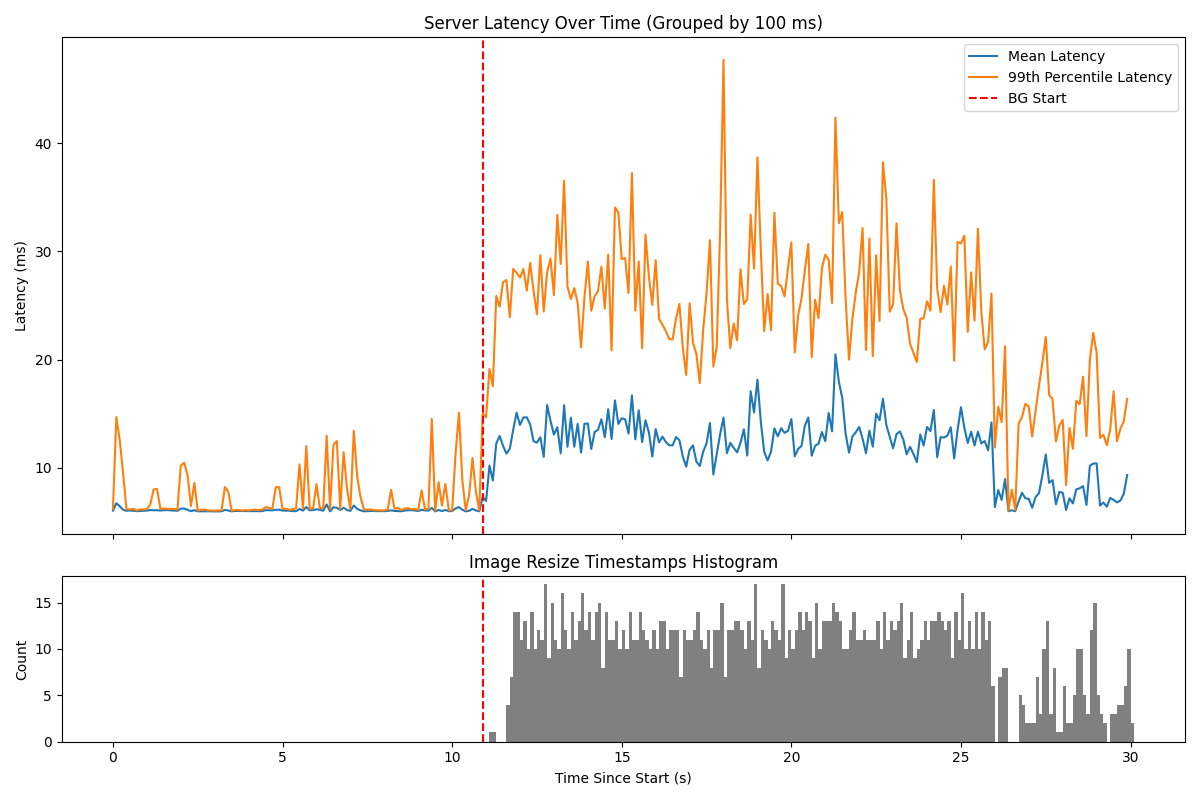
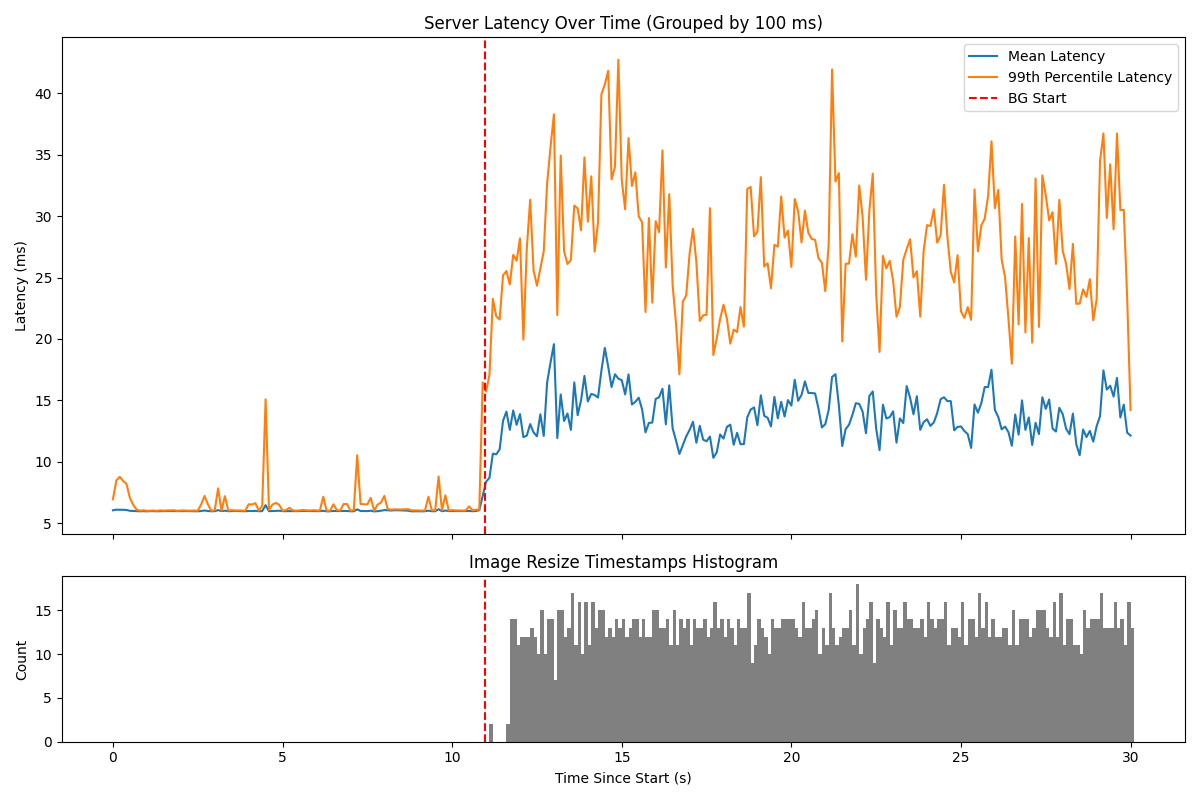
did some stuff, pushed further into the eval. it's all crap i don't really know what to do about it

diff --git a/smth26/eval.tex b/smth26/eval.tex
@@ -3,6 +3,48 @@
 \label{s:eval}
 %-------------------------------------------------------------------------------
 
+All the graphs in this paper run on Linux version 6.14.2, the baseline version
+that our patch builds on. In our evaluation, we explore XX questions:
+\begin{enumerate}
+    \item Does the patch create the categorical split we wanted on a mechanistic level?
+    \item Does the patch isolate LC from BE workloads for real applications?
+    \item How much does the patch cost?
+\end{enumerate}
+
+
+\subsection{Verifying patch behavior}
+
+\begin{figure}[t]
+    \centering
+    \begin{subfigure}[t]{0.49\columnwidth}
+        \includegraphics[width=\columnwidth]{graphs/schedviz-steal-unedited.png}
+        \caption{unedited Linux}
+    \end{subfigure}
+    \hspace{\fill}
+    \begin{subfigure}[t]{0.49\columnwidth}
+        \includegraphics[width=\columnwidth]{graphs/schedviz-steal-patched.png}
+        \caption{patched Linux}
+    \end{subfigure}
+    \vspace{4pt}
+    \caption{microbench on two cores; in both diagrams the different shades of blue are the
+    \schednormal{} processes and the yellow is the \schedidle{} process}\label{fig:steal-micro}
+\end{figure}
+
+We begin by looking at the behavior of the patch in a microbenchmark. On three
+cores, we run two \schednormal{} processes and one \schedidle{} process. We
+visualize the scheduling decisions made by both an unedited and patched version
+of the kernel in \autoref{fig:steal-micro}. We observe that the scheduler
+initially runs two of the \schednormal{} processes on one core and the third on
+the other core. When the latter finishes, the unedited version of Linux will run
+the \schedidle{} process on that core; whereas the patched version will steal
+the queued \schednormal{} process from the other core. 
+
+We conclude that the patch works as expected, and is able to enforce the
+categorical separation of \schednormal{}, ie LC, and \schedidle{}, ie BE,
+workloads across cores.
+
+\subsection{Realistic applications}
+
 
 \begin{figure}[t]
     \centering
@@ -20,9 +62,23 @@
     tasks before running \schedidle{} ones}\label{fig:patched-idle}
 \end{figure}
 
-We can see the resulting performance in figure~\ref{fig:patched-idle}, and see
-that as desired the latency of the server remains stable after the background
-tasks start. This does not mean that the background task never runs: the lower
-graph still shows iterations of image resizing being done. The difference is
-that now the background tasks will reliably get interrupted when the LC server
-has a request to process.
+This work focuses on cpu allocation, and thus will show the strongest gains for
+applications that are cpu bound. 
+
+We test the patch in two different settings: the cpu-bound example server we
+have been using for the graphs in this paper so far, and an example web application
+that we run using Kubernetes, that uses a mix of i/o and cpu.
+
+For the experiment we have used throughout the paper, we set the BE workloads to
+be marked as idle via the \cgroups{} api. We can see the resulting performance
+in figure~\ref{fig:patched-idle}. As desired the latency of the server remains
+stable after the background tasks start. This does not mean that the background
+task never runs: the lower graph still shows iterations of image resizing being
+done. The difference is that now the background tasks will reliably get
+interrupted when the LC server has a request to process.
+
+For the web application, we build a REST-api on top of FastAPI, and deploy it
+using async gunicorn workers. The web application itself is a recommendation
+service, it has a connection to a database, which is makes requests to and
+processes data from.
+

diff --git a/smth26/approach.tex b/smth26/approach.tex
@@ -10,20 +10,19 @@ A categorical differentiation in the scheduler enables unbounded unfairness
 towards BE during high load, and requires few and well-defined synchronization
 points between cores.
 
-Unbounded unfairness is a requirement for practical independence between LC and
-BE workloads: LC service times need to be independent of the load as well as the
-number of BE workloads. For any weighted split, a large enough number of BE
-workloads will add up to a significant weight in the system; for example, even
-if the weights were correctly globally enforced, packing 100 BE workloads on a
-machine would lead the proportional weight of the LC workload to decrease
-significantly. A categorical split between LC and BE avoids this: as more BE
-workloads start up, the share that BE gets doesn't change. As a result of this
-unbounded unfairness towards BE workloads, we have bounded the amount of impact
-that BE workloads can have on LC workloads' CPU time.
+Kubernetes uses the nested nature of \cgroups{} to do what we now support
+explicitly: a categorically separate class for BE. As new BE tasks start, only
+the CPU time of other BE tasks is affected. This type of unfairness is a
+requirement for practical independence between LC and BE workloads: LC service
+times need to be independent of the load as well as the number of BE workloads.
+A categorical split between LC and BE enforce this: as more BE workloads start
+up, the share that BE gets doesn't change. As a result of this unbounded
+unfairness towards BE workloads, we have bounded the amount of impact that BE
+workloads can have on LC workloads' CPU time.
 
 Creating separate categories also allows for fewer synchronization points
-without losing any of the global guarantees. In order to enforce a categorical
-priority, the scheduler only needs to sychronize at two points: on
+without compromising the enforcement of global isolation. In order to enforce a
+categorical priority, the scheduler only needs to sychronize at two points: on
 \textit{entry}, when a new high-priority thread wakes up on a core already
 running something high-priority, and \textit{exit}, when starting to run a low
 priority thread. If on entry the scheduler looks for cores running low priority
@@ -78,11 +77,13 @@ We run the same experiment as in \autoref{s:intro}, but put the LC task in the
 Fifo scheduling class, and leave BE tasks with the default process weight.
 \autoref{fig:unedited-rt} shows the resulting measured latencies in the same low
 and high load setting as previously. As expected, we see that Linux is able to
-isolate the two very well. However, this is an untenable final solution because
-of Fifo's run-to-completion scheduling, which is known to have a failure mode of
-head-of-line (HoL) blocking, where long-running requests monopolize the CPU
-while short requests wait in the queue. The Fifo scheduler also enforces not
-only cross-core isolation between different priorities, but also a global
+isolate the two very well. 
+
+However, this is an untenable final solution because of Fifo's run-to-completion
+scheduling, which is known to have a failure mode of head-of-line (HoL) blocking
+under varied request processing times, where long-running requests monopolize
+the CPU while short requests wait in the queue. The Fifo scheduler also enforces
+not only cross-core isolation between different priorities, but also a global
 ordering within the same priority.
 
 The takeaway is that Linux's current mechanism of scheduling classes can isolate

diff --git a/smth26/problem.tex b/smth26/problem.tex
@@ -48,7 +48,7 @@ interface is at odds with machine-wide policy enforcement.
 
 \begin{figure}[t]
     \centering
-    \includegraphics[width=0.8\columnwidth]{graphs/todo.png}
+    \includegraphics[width=\columnwidth]{graphs/cmp-x-numa.png}
     \caption{the low load setting of the same experiment, running on cores
     across two NUMA nodes}\label{fig:across-numa}
 \end{figure}
@@ -58,15 +58,13 @@ interface is at odds with machine-wide policy enforcement.
 We see that this is the case by running the same experiment in a setting where
 synchronization is even more expensive: on cores across NUMA nodes. In
 \autoref{fig:across-numa}, we run the exact same experiment, but use cores that
-span different NUMA nodes. The graph shows a greatly increased latency spike,
-due to a decreased number of migrations: in the original experiment there were
-XX migrations over the course of the experiment, and in this version there were
-only YY. This indicates that, as expected, more synchronization points increases
-the degree to which the weights are enforced across cores. In order to strictly
-and completely enforce the weights, the scheduler would need to synchronize at
-every scheduling decision: calculating whether a given process is owed time
-globally requires knowing the total weight across all cores as well as the sum
-of time that all the processes in the group have gotten. 
+span different NUMA nodes. The graph shows more variable latencies as well as
+higher spikes. This indicates that, as expected, more synchronization points
+increases the degree to which the weights are enforced across cores. In order to
+strictly and completely enforce the weights, the scheduler would need to
+synchronize at every scheduling decision: calculating whether a given process is
+owed time globally requires knowing the total weight across all cores as well as
+the sum of time that all the processes in the group have gotten. 
 
 
 \subsection{Weights add up}
@@ -84,17 +82,14 @@ Although low weights run infrequently, they still get a fair share, and in doing
 so impact the latency of the higher weight (LC) processes. A large number of BE
 workloads each with a small weight adds up to represent a significant amount of
 weight in the system, now contending directly with the LC workload. In
-\autoref{fig:many-be}, we show the mean and 99th pctile latency increase when
-starting different numbers of BE workload, as compared to an uncontended
-baseline. As expected, as the number of BE workloads goes up, the impact on the
-latency of the LC server goes up.
+\autoref{fig:many-be}, we show the mean and 99th pctile latency increase for the
+LC server when starting different numbers of BE workload, as compared to an
+uncontended baseline. As expected, as the number of BE workloads goes up, the
+impact on the latency of the LC server goes up.
 
-Weights also interact with Linux's 4ms scheduling tick granularity: when it is a
-low-weight processes time to run, it will likely be scheduled for a full tick.
-It is common for microservices to have SLAs in the order of 10ms or even less,
-where a gap of 4ms will have a significant impact on response latency.
-Compounded with a large number of BE workloads, this can lead to significant
-overheads, even in a world where weights are correctly enforced across cores.
+In order avoid this, Kubernetes makes use of the nested structure of \cgroups{}
+to create a parent group that gets a weight of 1 and holds all the best effort
+containers within it.
 
 
 

diff --git a/smth26/implementation.tex b/smth26/implementation.tex
@@ -6,12 +6,37 @@ to make \schedidle{} effectively its own scheduling class. We chose to do this
 rather than create an entirely new scheduling class in the code, which would be
 intellectually cleaner and closer to the conceptual reality, but would require
 more code changes and leave \schedidle{} in it's current half-formed
-state.\hmng{bad structure}
+state.
 
-We write a Linux patch that turns \schedidle{} into effectively a separate
-scheduling class. The patch intervenes in two places in the current scheduling
-process of the Normal scheduler: 1: it ensures that no \schedidle{} entity will
-be chosen if there is a runnable \schednormal{} entity (this overrides the fair
-share that even a weight 1 process would occasionally get in the unmodified
-kernel), and 2: it tries to steal queued \schednormal{} entities from other
-cores before running a \schedidle{} entity.
+We patch Linux version 6.14.2, and the patch requires XX lins of code change. It
+intervenes in two places in the current scheduling process of the Normal
+scheduler: 
+\begin{enumerate}
+    \item it ensures that no \schedidle{} entity will be chosen if there is a
+runnable \schednormal{} entity (this overrides the fair share that even a weight
+1 process would occasionally get in the unmodified kernel),
+    \item it tries to steal queued \schednormal{} entities from other cores
+before running a \schedidle{} entity.
+
+\end{enumerate}
+
+
+Doing the first part required changing the code that picks the next entity in
+the Normal scheduler, in the function \texttt{pick\_eevdf}. The Normal scheduler
+maintains the runqueue in the structure of a binary tree, which is ordered by
+the amount of virtual CPU time each process has gotten (virtual because it takes
+into account the entities weight). The current function searches that tree, and
+chooses the most leftmost eligible entity to run. The patch first adds checks
+whether the runqueue is currently in an `idle' state, ie only has \schedidle{}
+entites on its runqueue. If that is true then the search is performed as usual,
+if not then the patch checks each movement through the tree to ensure that the
+subtree being chosen has at least one \schednormal{} entity, and that the final
+process chosen is one as well. This ensures that the most eligible
+\schednormal{} task is chosen to run next.
+
+Should the task chosen be in \schedidle{}, but the one running before was
+\schednormal{}, then we know we are in an \textit{exit} path. The patch adds
+code that, in this situation, will try to steal queued \schednormal{} tasks from
+other cores. It will steal up to half of the busiest cores' queued
+\schednormal{} tasks.
+

diff --git a/smth26/solution.tex b/smth26/solution.tex
@@ -3,7 +3,9 @@
 
 Rather than moving the LC workload up a class, we move the BE workload down.
 Linux does not natively have a scheduling class below Normal, so we make use of
-a scheduling policy that Linux has and already special cases in some places.
+a scheduling policy that Linux has and already special cases in some
+places.\hmng{this section is a weird middle between `design', which we don't
+really have, and implementation}
 
 \schedidle{} is a scheduling \textit{policy}. Policies are not full scheduling
 classes, but allow for special casing within a scheduling class. The Normal
